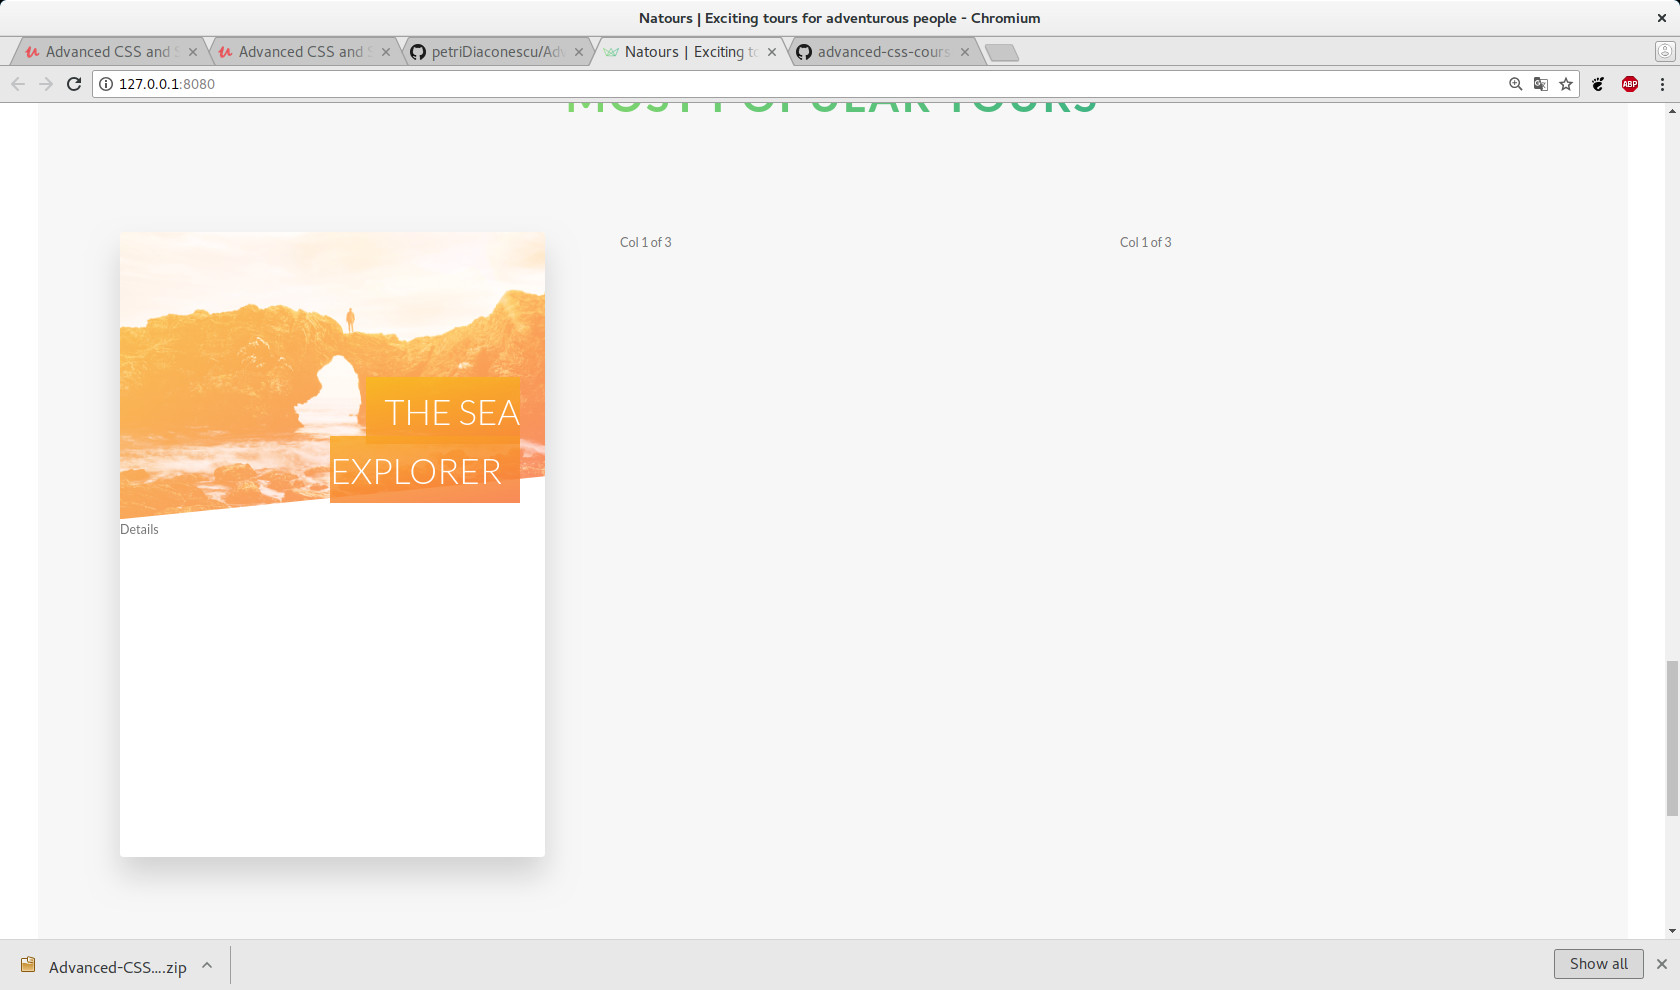
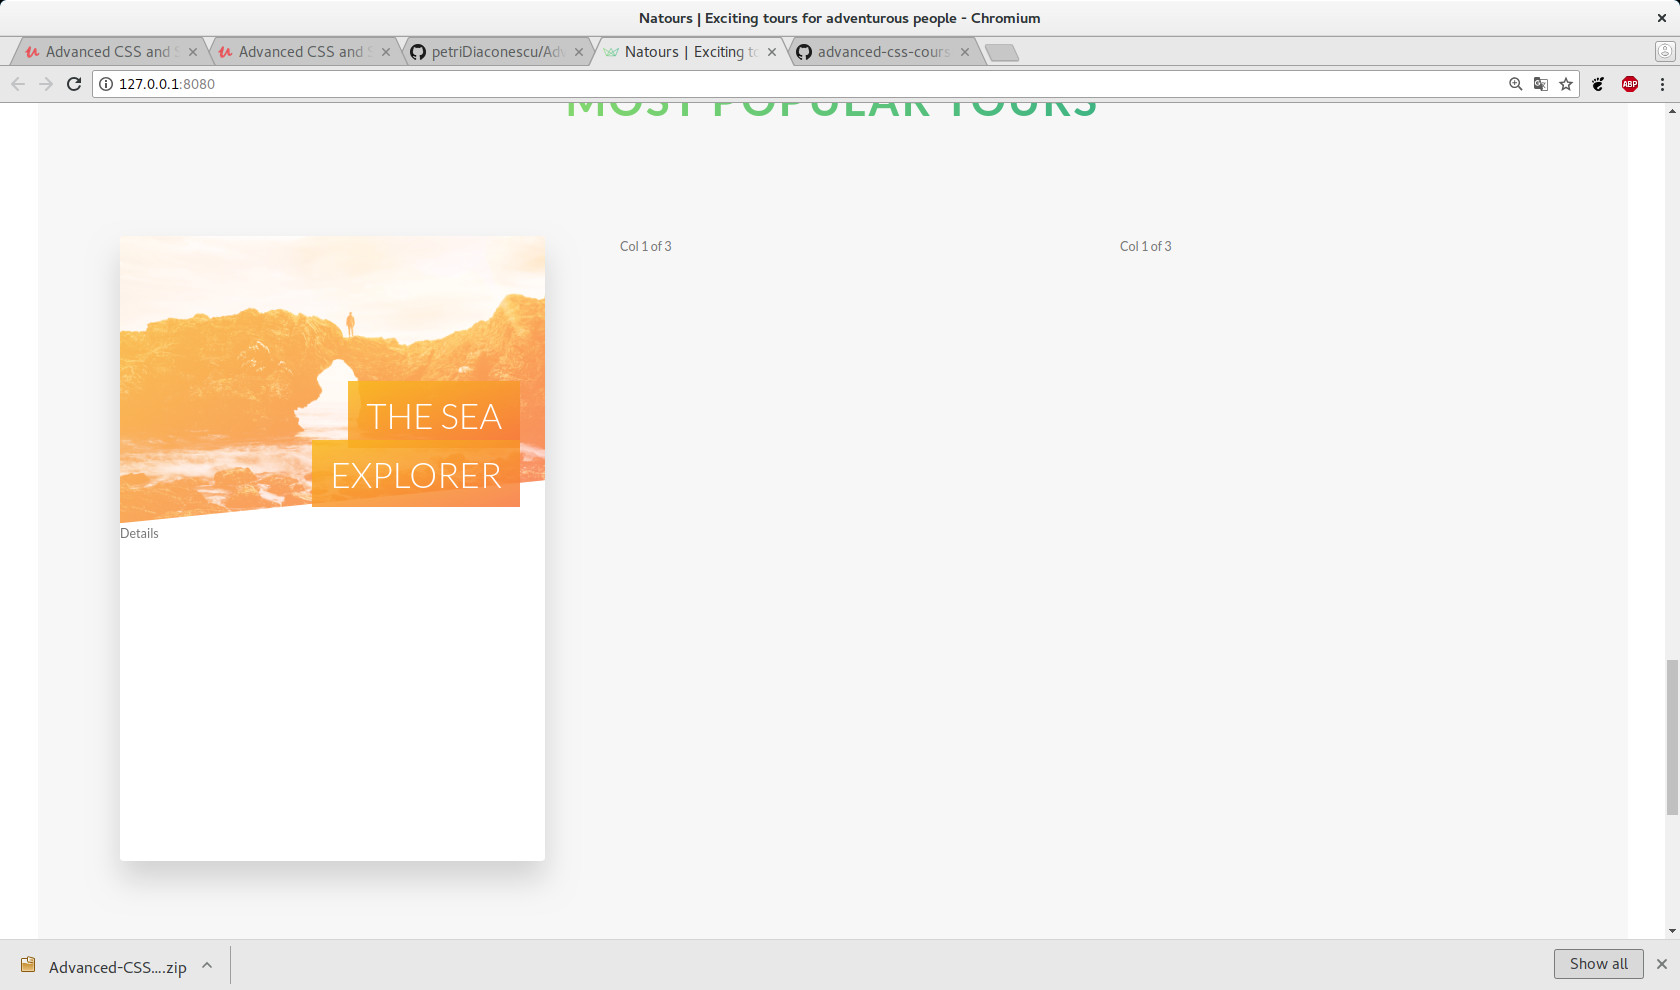
card-details HTML and first styles

diff --git a/index.html b/index.html
@@ -128,7 +128,15 @@
                     <span class="card__heading-span card__heading-span--1">The Sea Explorer</span>
                     
                   </h4>
-                  <div class="card__details">Details</div>
+                  <div class="card__details">
+                    <ul>
+                      <li>3 day tours</li>
+                      <li>Up to 30 people</li>
+                      <li>2 tour guides</li>
+                      <li>Sleep in cozy hotels</li>
+                      <li>Difficulty: easy</li>
+                    </ul>
+                  </div>
                 </div>
                 <div class="card__side card__side--back card__side--back-1">
                   BACK

diff --git a/sass/components/_card.scss b/sass/components/_card.scss
@@ -85,9 +85,23 @@
       background-image: linear-gradient(to right bottom, 
         rgba($color-secondary-light, .85), 
         rgba($color-secondary-dark, .85));
-
-
-    }  
+    }      
+  }
+  
+  .card__details {
     
+    ul {
+      list-style: none;
+      width: 80%;
+      li {
+        text-align: center;
+        font-size: 1.5rem;
+        padding: 1rem;
+        
+        &:not(:last-child){
+          border-bottom: 1px solid $color-grey-light-2;
+        }
+      }
+    }
   }
 }

diff --git a/sass/abstracts/_variables.scss b/sass/abstracts/_variables.scss
@@ -10,6 +10,7 @@ $color-tertiary-light: #2998ff;
 $color-tertiary-dark: #5643fa;
 
 $color-grey-light-1: #f7f7f7;
+$color-grey-light-2: #eee;
 
 $color-gray-dark: #777;
 $color-white: #fff;
